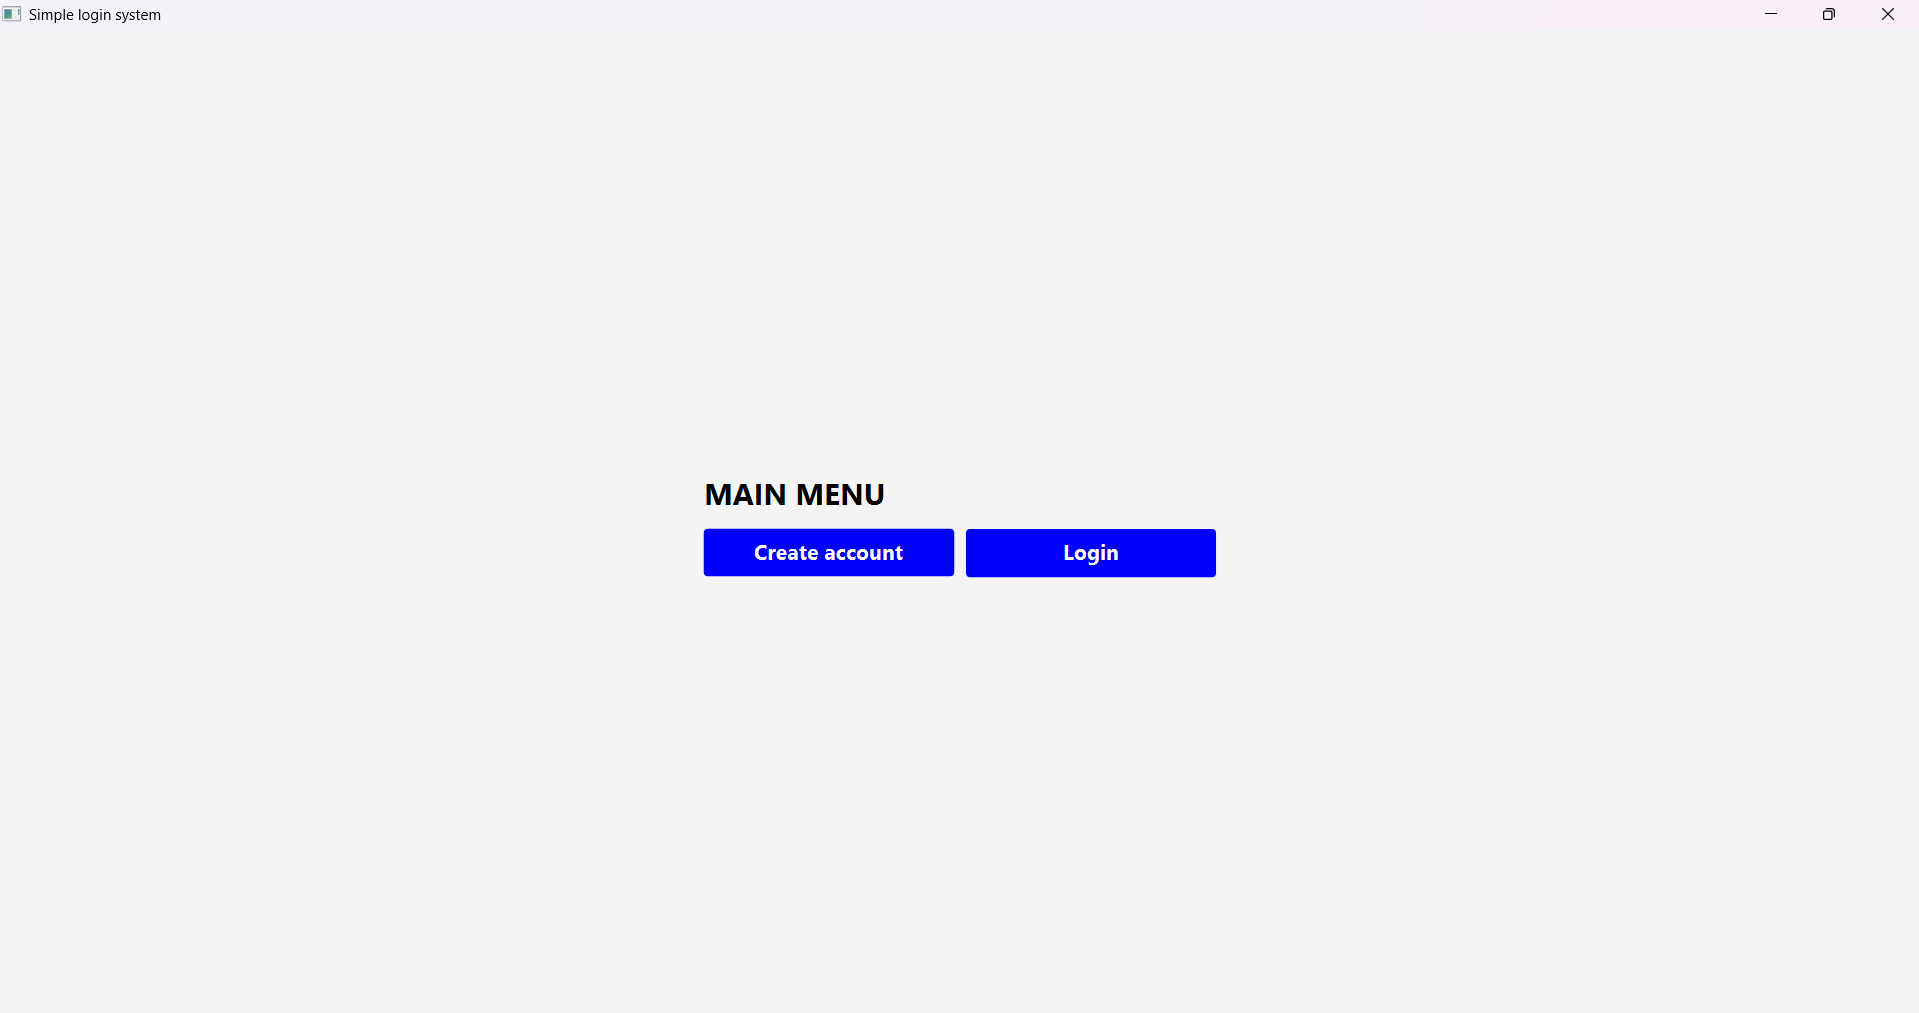
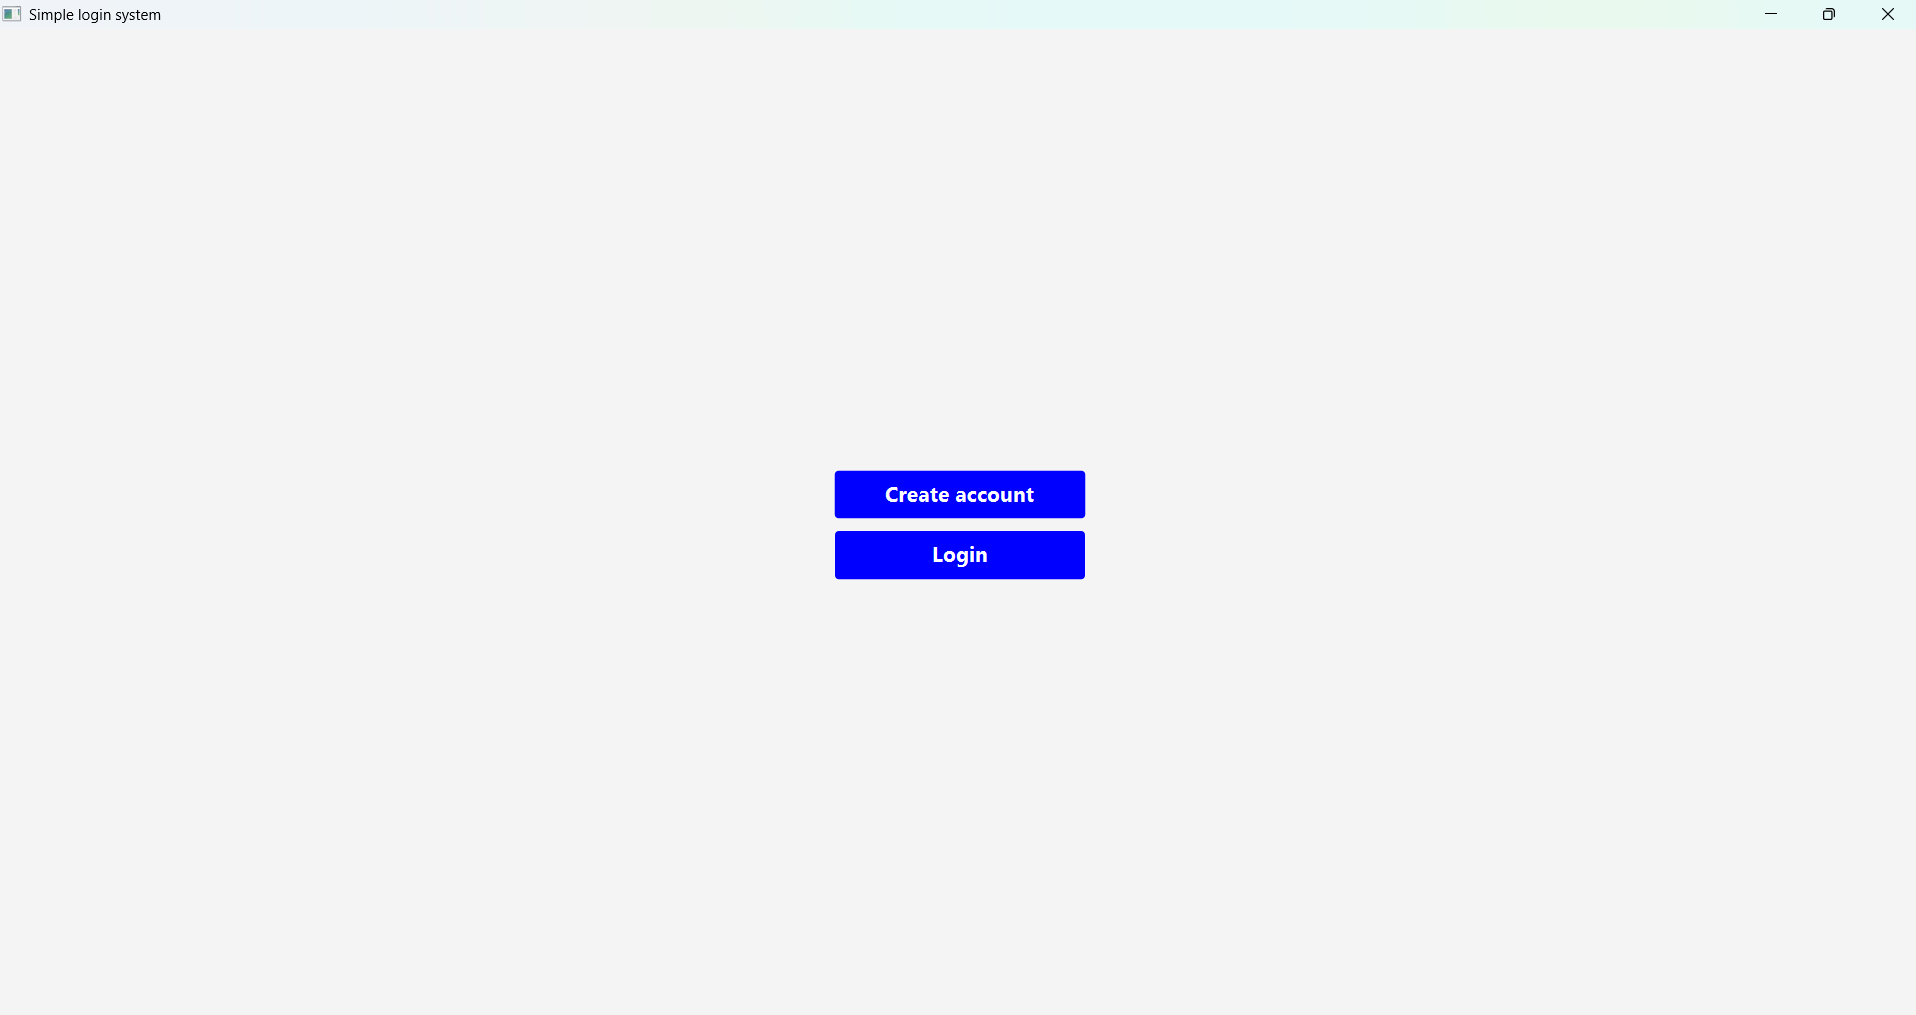
Describe what you changed, e.g., updated DashboardApp scene layout

Changed region(s): [[0.3695, 0.459, 0.6467, 0.5814]]

diff --git a/src/main/java/LoginSystem.java b/src/main/java/LoginSystem.java
@@ -5,8 +5,10 @@ import java.util.HashMap;
 import javafx.animation.PauseTransition;
 import javafx.application.Application;
 import javafx.geometry.Insets;
+import javafx.geometry.Pos;
 import javafx.scene.Scene;
 import javafx.scene.control.Button;
+import javafx.scene.control.Hyperlink;
 import javafx.scene.control.Label;
 import javafx.scene.control.PasswordField;
 import javafx.scene.control.TextField;
@@ -14,8 +16,6 @@ import javafx.scene.layout.GridPane;
 import javafx.scene.layout.HBox;
 import javafx.stage.Stage;
 import javafx.util.Duration;
-import javafx.scene.control.Hyperlink;
-import javafx.geometry.Pos;
 
 
 
@@ -24,6 +24,7 @@ import javafx.geometry.Pos;
 
 
 public class LoginSystem extends Application{
+    
 
 GridPane root = new GridPane(10,10);  //replace this with GridPane
 
@@ -55,15 +56,17 @@ notification.setStyle("-fx-text-fill:red;  -fx-font-style: italic;");
 
 
 
-Menu(stage);
+Menu(stage); //set as the first window
 
 
-Scene scene = new Scene(root,800,500);
+Scene scene = new Scene(root,1024,768);
 stage.setTitle("Simple login system");
 stage.setScene(scene);
 stage.show();
     
 }
+
+
 
 
 
@@ -75,12 +78,6 @@ private void Menu(Stage stage){
 root.getChildren().clear();
 
 
-Label header = new Label();
-
-
-//header
-header.setText("MAIN MENU");
-header.setStyle("-fx-text-fill: black; -fx-font-size: 24px; -fx-font-weight:bold;");
 
 Button createaccount = new Button("Create account");
 createaccount.setStyle("-fx-font-size: 17px; -fx-text-fill: white; -fx-background-color: blue; -fx-font-weight: bold;");
@@ -144,9 +141,8 @@ Login.setStyle("-fx-font-size: 17px; -fx-text-fill: white; -fx-background-color:
 Login.setOnAction(e -> Login(stage) );
 
 
-root.add(header,0,0);
-root.add(createaccount,0,1);
-root.add(Login,1,1);
+root.add(createaccount,0,0);
+root.add(Login,0,1);
 
 
 
